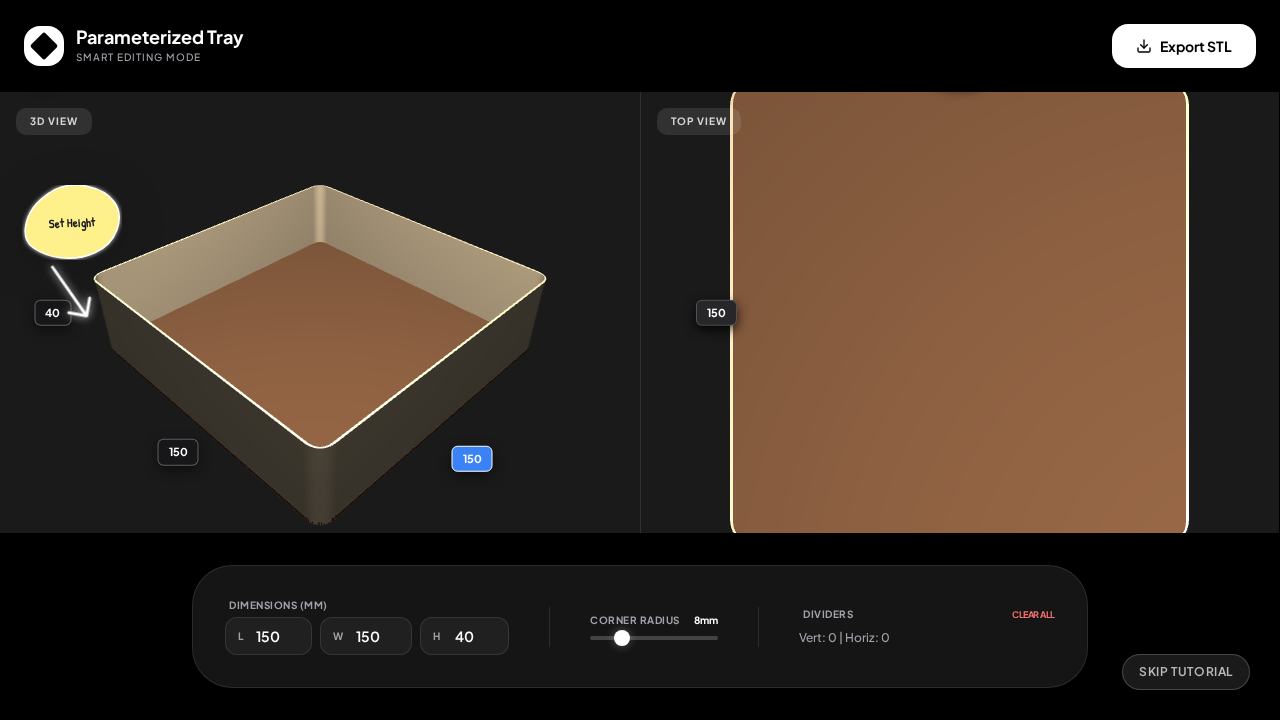
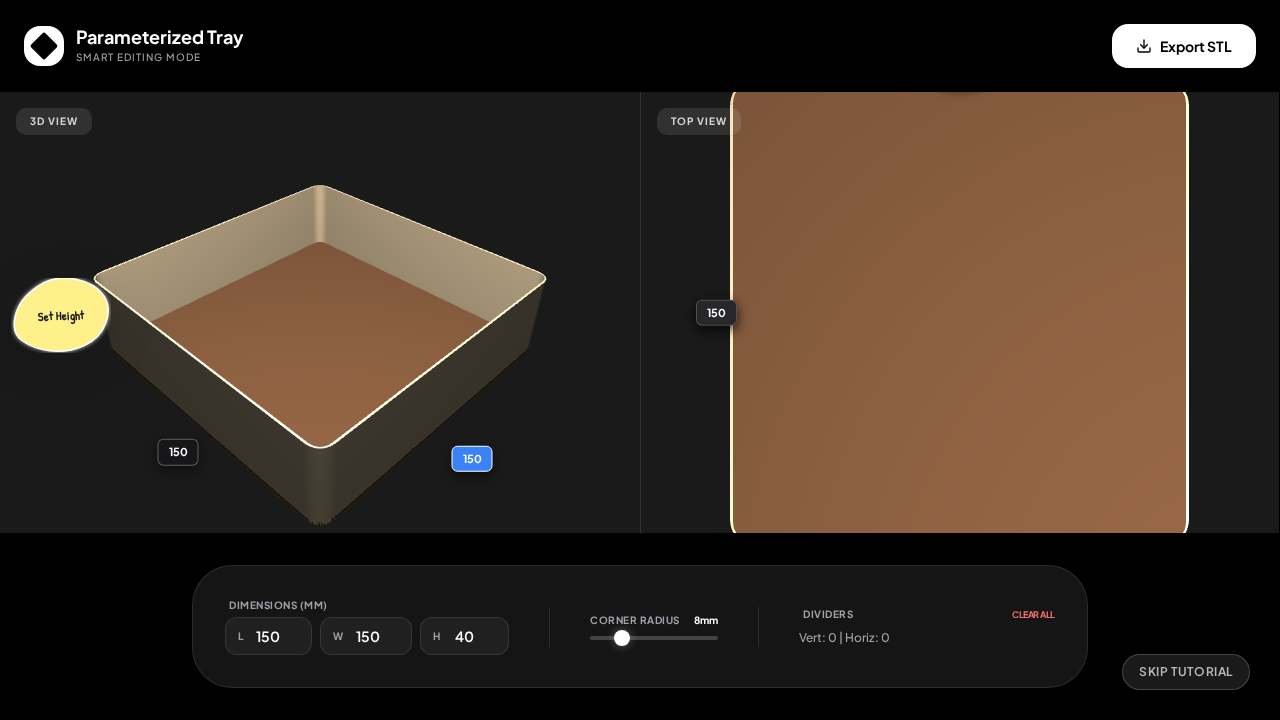
Refine tutorial overlay logic for dimensions and divider steps
- Update tutorial for L/W/H steps to center bubble on label and remove arrow, ensuring label is z-indexed above the overlay.
- Update "Add Horizontal" step to use a vertical "scan" animation (up/down) and add a visual trail element.
- Adjust bubble and cursor positioning to reduce overlap and improve clarity.

Changed region(s): [[0.0, 0.2444, 0.0938, 0.4889]]

diff --git a/index.html b/index.html
@@ -55,14 +55,15 @@
         .ghost-cursor svg { filter: drop-shadow(0 0 5px #fff) drop-shadow(0 0 10px #fff); }
 
         .ghost-divider { position: absolute; background: rgba(59, 130, 246, 0.5); pointer-events: none; opacity: 0; z-index: 9998; border-radius: 2px; }
+        .cursor-trail { position: absolute; width: 4px; background: rgba(255, 255, 255, 0.15); border-radius: 2px; pointer-events: none; opacity: 0; transition: opacity 0.3s; z-index: 9998; box-shadow: 0 0 4px rgba(255, 255, 255, 0.3); }
 
         /* Animations - Slowed down (approx 2x duration) */
         @keyframes cursor-scan-h { /* Horizontal scan (Right edge) */
-            0% { opacity: 0; transform: translate(0, 0); }
-            10% { opacity: 1; transform: translate(0, 0); }
-            50% { transform: translate(0, 150px); }
-            90% { transform: translate(0, 0); }
-            100% { opacity: 0; transform: translate(0, 0); }
+            0% { opacity: 0; transform: translate(0, -75px); }
+            10% { opacity: 1; transform: translate(0, -75px); }
+            50% { transform: translate(0, 75px); }
+            90% { transform: translate(0, -75px); }
+            100% { opacity: 0; transform: translate(0, -75px); }
         }
         @keyframes cursor-scan-v { /* Vertical scan (Bottom edge) */
             0% { opacity: 0; transform: translate(0, 0); }
@@ -124,6 +125,7 @@
             </svg>
         </div>
         <div id="ghost-divider" class="ghost-divider"></div>
+        <div id="cursor-trail" class="cursor-trail"></div>
     </div>
 
     <div id="add-indicator">+</div>
@@ -167,6 +169,7 @@
                 this.cursor = document.getElementById('ghost-cursor');
                 this.skipBtn = document.getElementById('tut-skip');
                 this.ghostDivider = document.getElementById('ghost-divider');
+                this.cursorTrail = document.getElementById('cursor-trail');
 
                 if(this.skipBtn) {
                     this.skipBtn.addEventListener('click', () => this.toggle());
@@ -215,6 +218,10 @@
                 this.cursor.style.opacity = 0;
                 this.ghostDivider.style.opacity = 0;
                 this.ghostDivider.style.animation = 'none';
+                this.cursorTrail.style.opacity = 0;
+
+                // Cleanup any z-index hacks from previous steps
+                document.querySelectorAll('.dim-label-3d, .input-group').forEach(el => el.style.zIndex = '');
 
                 // Reset cursor icon to pointer
                 this.cursor.innerHTML = '<svg viewBox="0 0 24 24" fill="white" stroke="black" stroke-width="2" xmlns="http://www.w3.org/2000/svg"><path d="M3 3L10.07 19.97L12.58 12.58L19.97 10.07L3 3Z" /></svg>';
@@ -276,46 +283,69 @@
 
                 let top, left, arrowRot, arrowTop, arrowLeft;
 
-                if (side === 'right') {
-                    top = rect.top - 20;
-                    left = rect.right + 20;
-                    arrowRot = 135;
-                    arrowTop = rect.top + 10;
-                    arrowLeft = rect.right + 5;
-                } else if (side === 'right-offset') { // Specific for Horizontal Divider Step
-                    top = rect.top + rect.height / 2 - 60;
-                    left = rect.right + 10; // 10px offset from right wall
-                    arrowRot = 180;
-                    arrowTop = rect.top + rect.height / 2 - 30;
-                    arrowLeft = rect.right - 10;
-                    // Hide arrow for this specific clean look if desired, or keep pointing
-                    this.arrow.style.opacity = 0;
-                } else if (side === 'bottom-offset') { // Specific for Vertical Divider Step
-                    top = rect.bottom + 10;
-                    left = rect.left + rect.width / 2 - 70;
-                    arrowRot = 270;
-                    this.arrow.style.opacity = 0;
-                } else if (side === 'left') {
-                    top = rect.top - 20;
-                    left = rect.left - 160;
-                    arrowRot = 45;
-                    arrowTop = rect.top + 10;
-                    arrowLeft = rect.left - 65;
-                } else if (side === 'top') {
-                    top = rect.top - 120;
-                    left = rect.left - 20;
-                    arrowRot = 100;
-                    arrowTop = rect.top - 40;
-                    arrowLeft = rect.left;
-                } else {
-                    top = rect.bottom + 60;
-                    left = rect.left + rect.width/2 - 70;
-                    arrowRot = 45;
-                    arrowTop = rect.bottom + 5;
-                    arrowLeft = rect.left + rect.width/2 - 30;
-                }
+                // Check if targeting a 3D label for Dimensions step
+                if (target.classList.contains('dim-label-3d') || target.classList.contains('input-group')) {
+                    // Center the bubble on the label
+                    // Bubble width approx 100, height approx 75?
+                    // Let's assume centered behind
+                    top = rect.top + rect.height/2 - 75; // 75 = roughly half bubble height (150px in SVG but scaled) -> CSS says width 100px. Aspect 4:3. height ~75px. half is 37.5.
+                    // Wait, bubble SVG is 200x150. CSS width 100px. So height is 75px.
+                    // To center bubble (75px high) on label (approx 20px high):
+                    // label center Y = rect.top + rect.height/2.
+                    // bubble top = label center Y - bubble height/2 = Y - 37.5.
+                    // Let's try 40 offset.
+                    top = rect.top + rect.height/2 - 40;
+                    left = rect.left + rect.width/2 - 50; // Center 100px width
 
-                if (side !== 'right-offset' && side !== 'bottom-offset') this.arrow.style.opacity = 1;
+                    this.arrow.style.opacity = 0;
+                    target.style.zIndex = '10005'; // Elevate label above overlay
+                } else {
+
+                    if (side === 'right') {
+                        top = rect.top - 20;
+                        left = rect.right + 20;
+                        arrowRot = 135;
+                        arrowTop = rect.top + 10;
+                        arrowLeft = rect.right + 5;
+                    } else if (side === 'right-offset') { // Specific for Horizontal Divider Step
+                        top = rect.top + rect.height / 2 - 60;
+                        // Move bubble further right to make room for cursor between square and bubble
+                        // Square ends at rect.right.
+                        // We want cursor at rect.right + 15.
+                        // Cursor is ~32px.
+                        // So bubble should start around rect.right + 50 or 60.
+                        left = rect.right + 60;
+                        arrowRot = 180;
+                        arrowTop = rect.top + rect.height / 2 - 30;
+                        arrowLeft = rect.right + 40; // Arrow points from right to left?
+                        this.arrow.style.opacity = 0;
+                    } else if (side === 'bottom-offset') { // Specific for Vertical Divider Step
+                        top = rect.bottom + 10;
+                        left = rect.left + rect.width / 2 - 70;
+                        arrowRot = 270;
+                        this.arrow.style.opacity = 0;
+                    } else if (side === 'left') {
+                        top = rect.top - 20;
+                        left = rect.left - 160;
+                        arrowRot = 45;
+                        arrowTop = rect.top + 10;
+                        arrowLeft = rect.left - 65;
+                    } else if (side === 'top') {
+                        top = rect.top - 120;
+                        left = rect.left - 20;
+                        arrowRot = 100;
+                        arrowTop = rect.top - 40;
+                        arrowLeft = rect.left;
+                    } else {
+                        top = rect.bottom + 60;
+                        left = rect.left + rect.width/2 - 70;
+                        arrowRot = 45;
+                        arrowTop = rect.bottom + 5;
+                        arrowLeft = rect.left + rect.width/2 - 30;
+                    }
+
+                    if (side !== 'right-offset' && side !== 'bottom-offset') this.arrow.style.opacity = 1;
+                }
 
                 // Boundary checks
                 if (left + 140 > window.innerWidth) left = window.innerWidth - 160;
@@ -338,8 +368,19 @@
 
                 if (edge === 'right-edge-outer') {
                     // Start at center-right, outside
-                    this.cursor.style.left = `${rect.right + 20}px`;
-                    this.cursor.style.top = `${rect.top + rect.height/2 - 75}px`;
+                    // Position cursor between square (rect.right) and bubble (rect.right + 60)
+                    const cursorX = rect.right + 15;
+                    const cursorYStart = rect.top + rect.height/2;
+
+                    this.cursor.style.left = `${cursorX}px`;
+                    this.cursor.style.top = `${cursorYStart}px`;
+
+                    // Show trail
+                    this.cursorTrail.style.opacity = 1;
+                    this.cursorTrail.style.left = `${cursorX + 6}px`; // +6 to center under cursor tip? Cursor is 32px. Tip is at 0,0. Trail should be near tip.
+                    this.cursorTrail.style.top = `${cursorYStart - 75}px`; // Start of scan range
+                    this.cursorTrail.style.height = '150px'; // Range of scan
+
                 } else if (edge === 'bottom-edge-outer') {
                     // Start at center-bottom, outside
                     this.cursor.style.left = `${rect.left + rect.width/2 - 75}px`;
